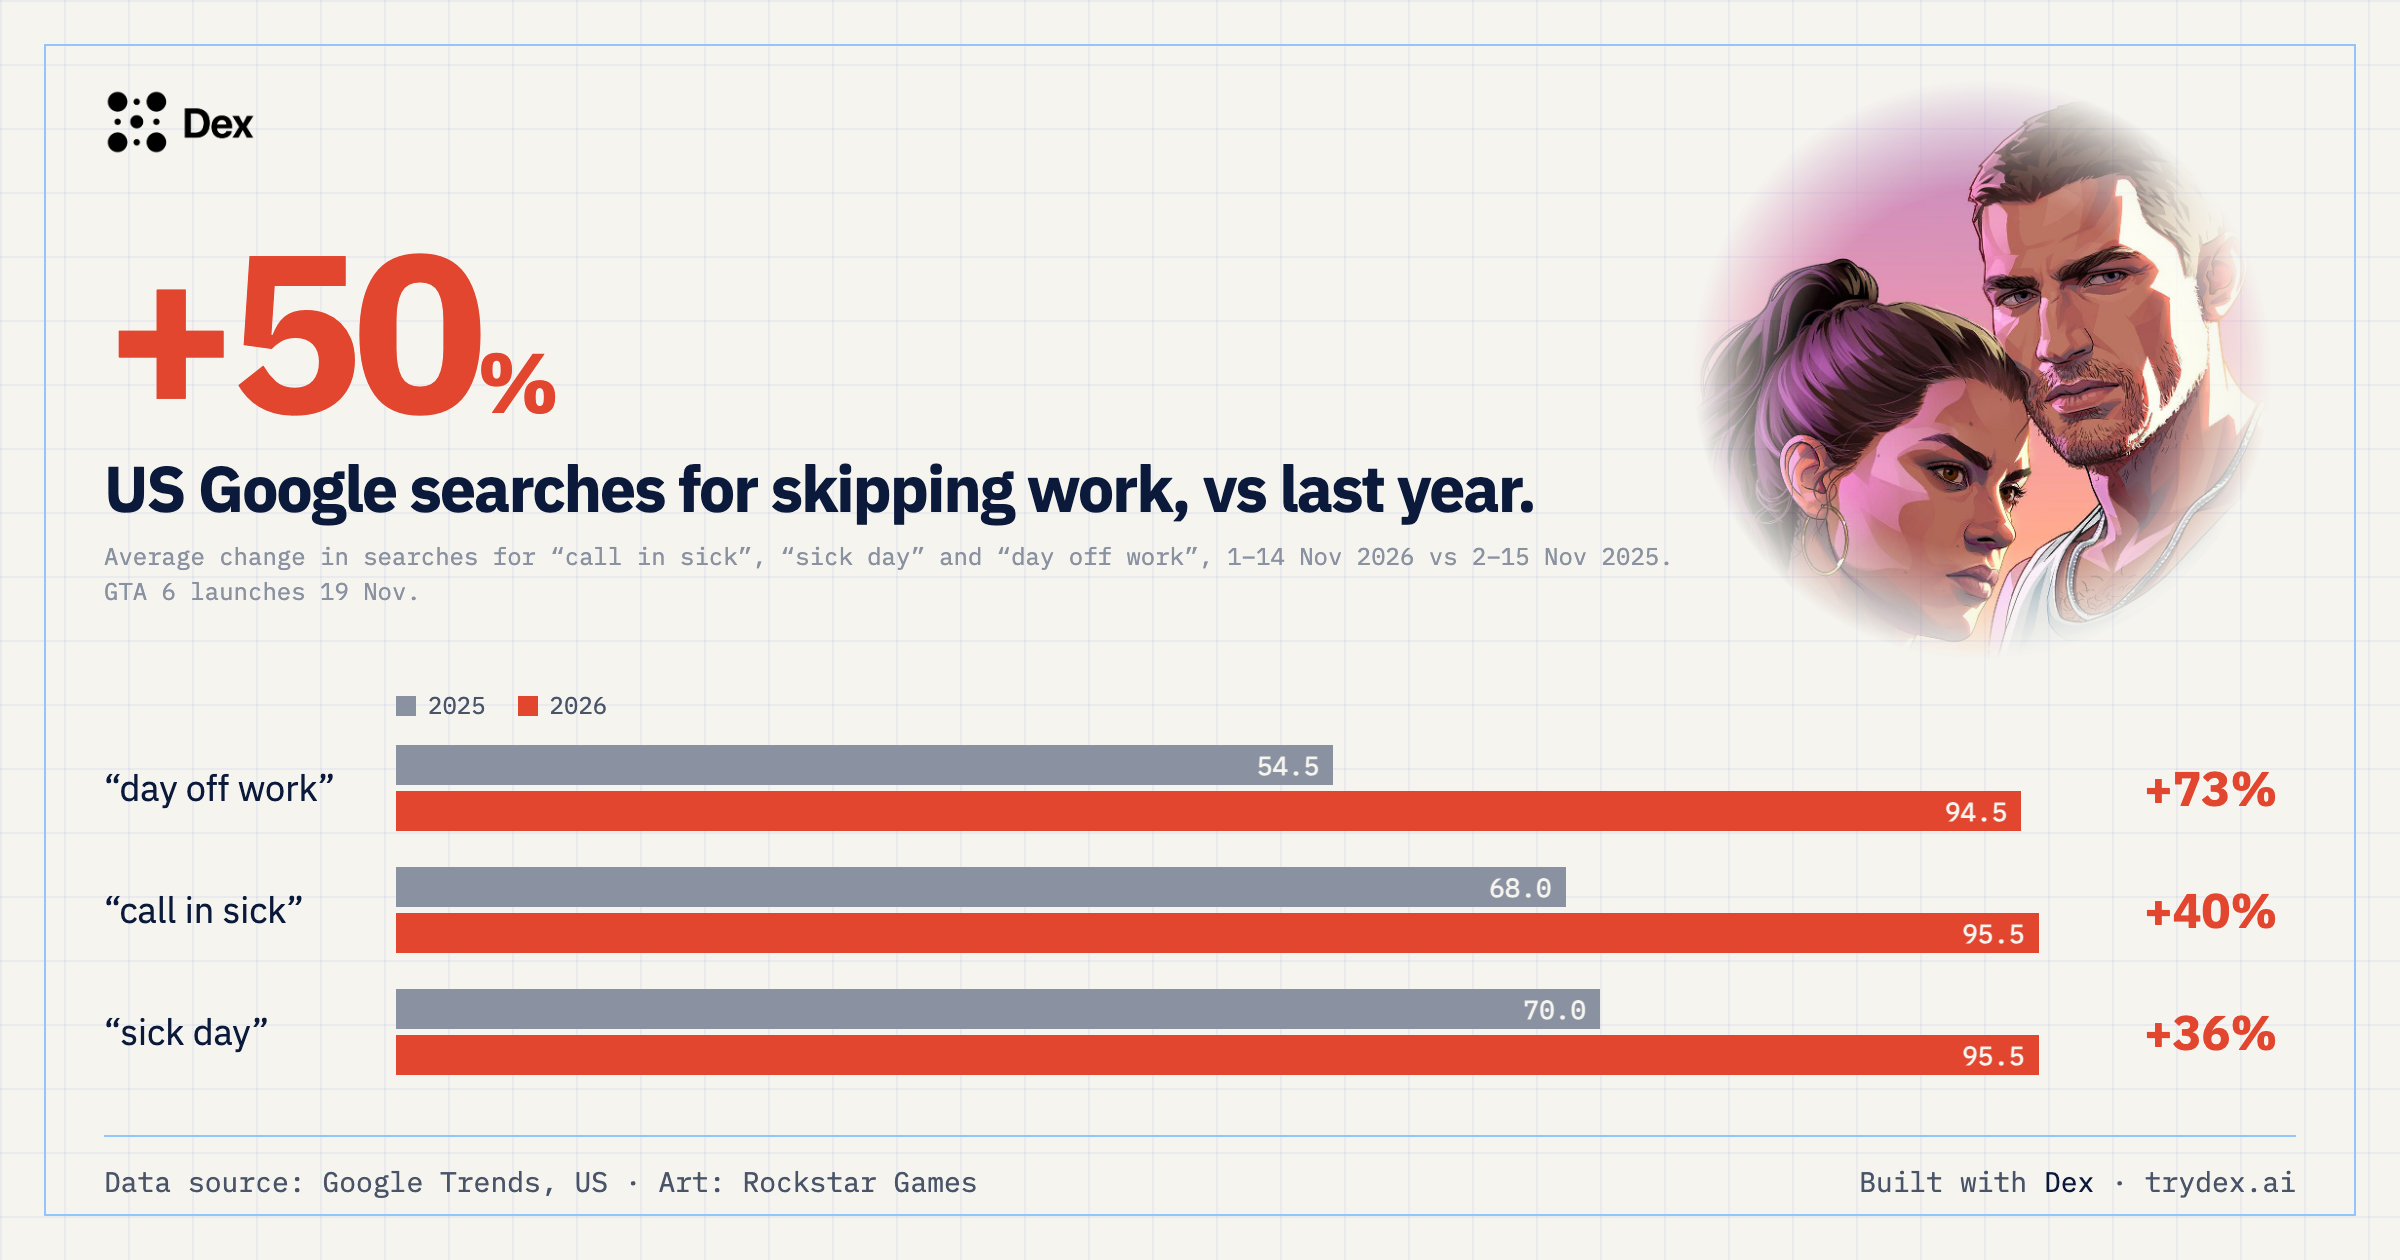
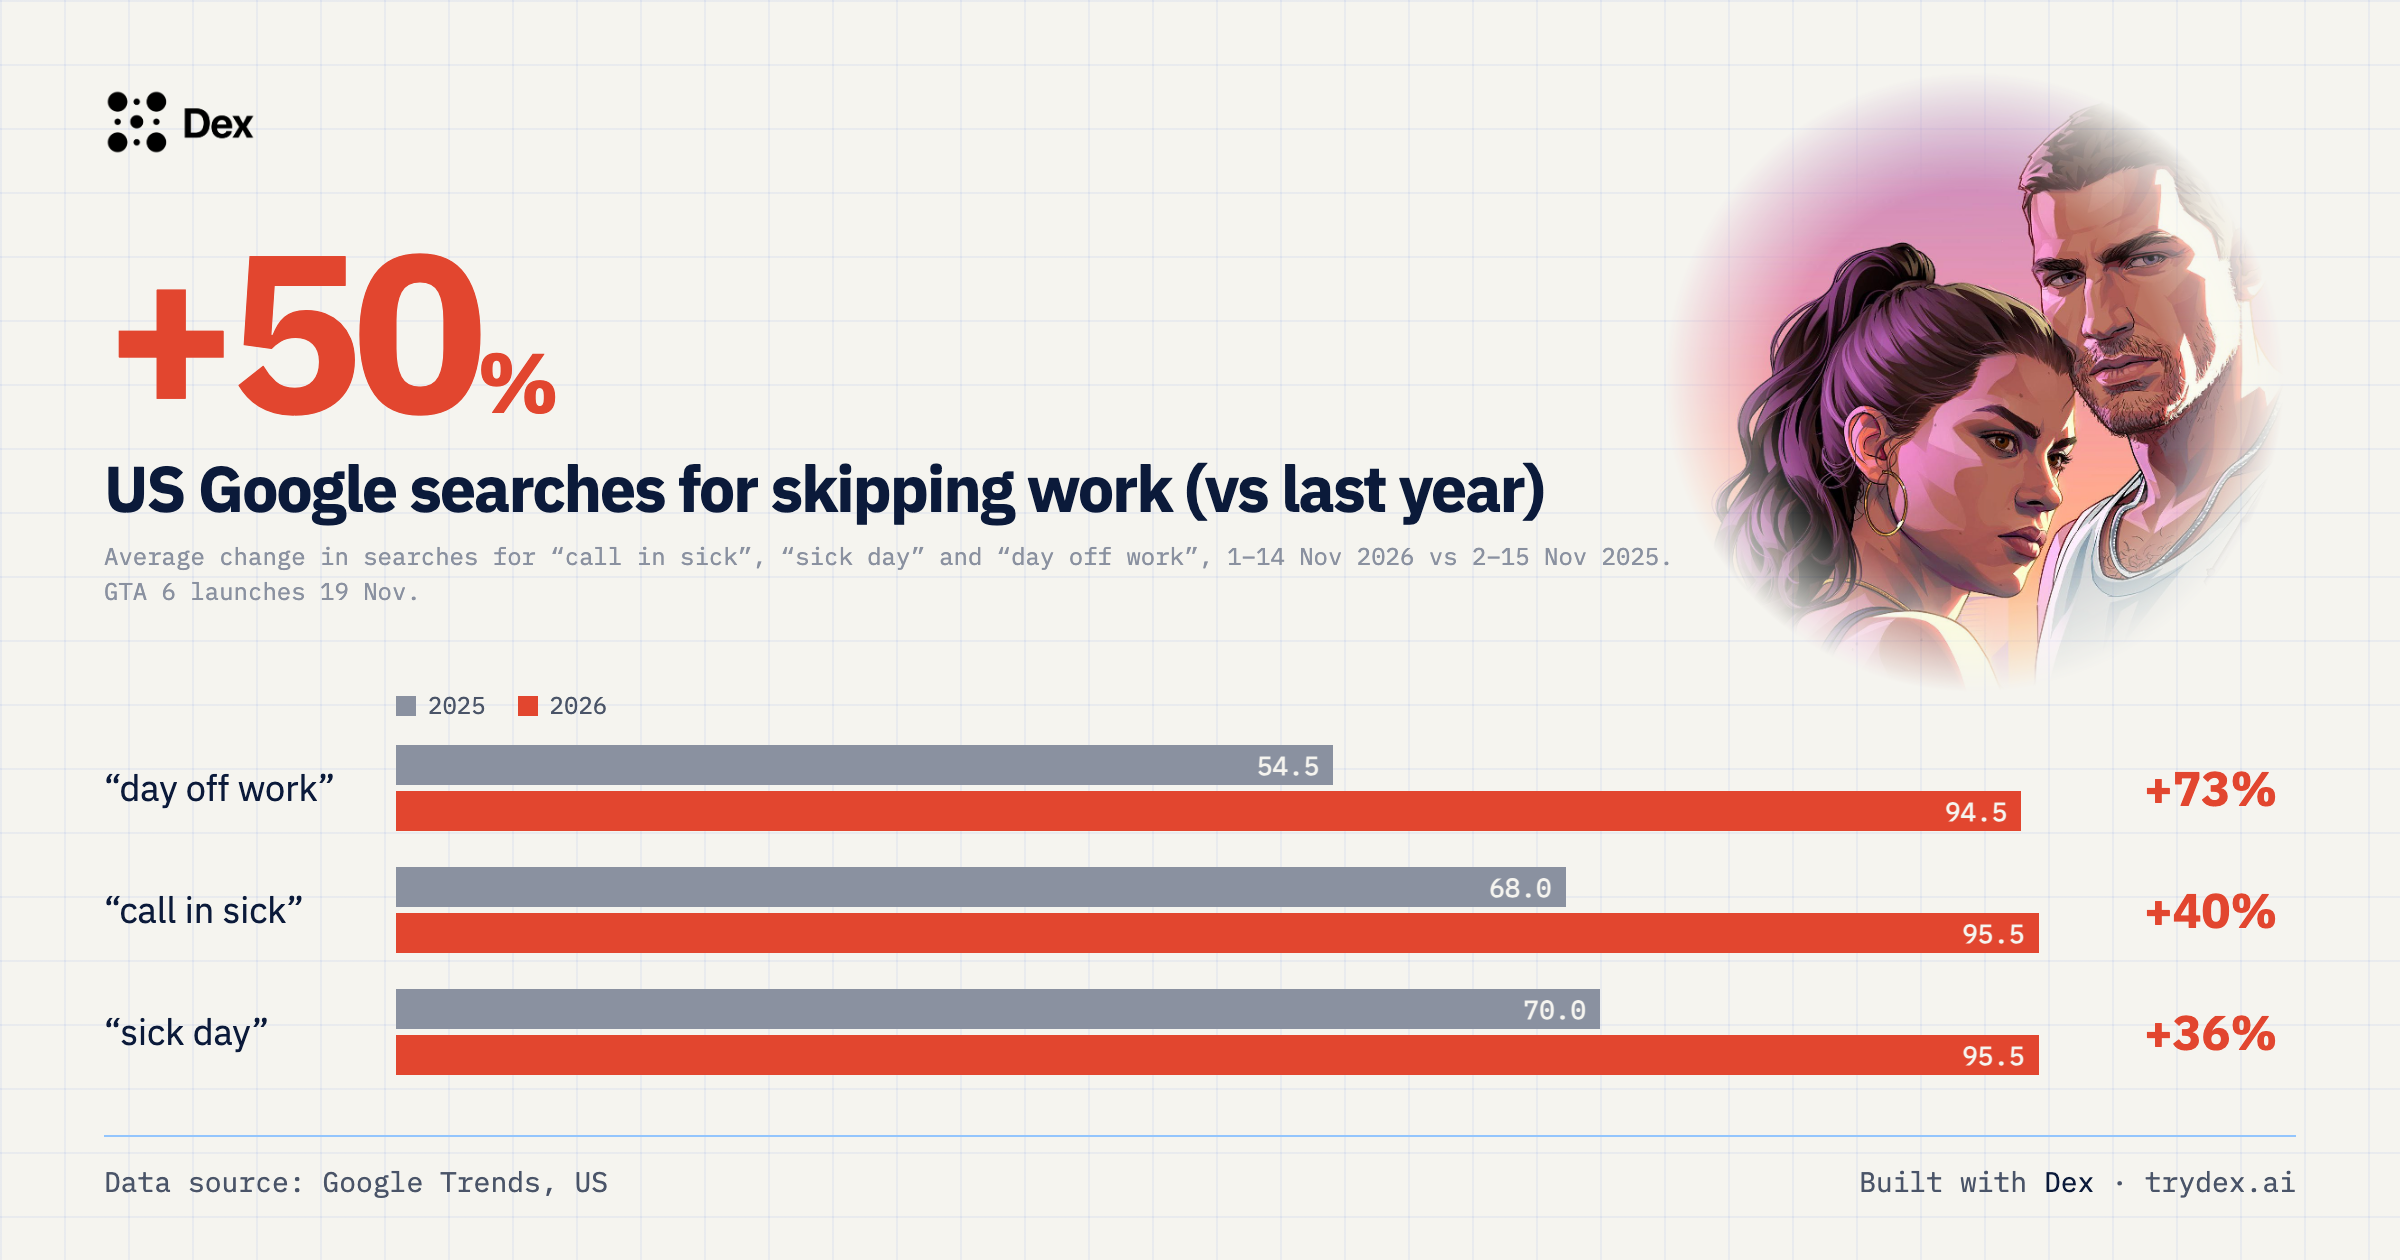
Fine-tuned chart for day off index, again

Changed region(s): [[0.6875, 0.0929, 0.9688, 0.5571], [0.4688, 0.3714, 0.6562, 0.4024], [0.2812, 0.9286, 0.4062, 0.9595]]

diff --git a/brand/charts.css b/brand/charts.css
@@ -11,7 +11,6 @@ html, body { margin: 0; background: var(--dex-paper); }
     linear-gradient(90deg, color-mix(in srgb, var(--dex-line) 6%, transparent) 1px, transparent 1px);
   background-size: 32px 32px;
 }
-.card::before { content: ""; position: absolute; inset: 22px; border: 1px solid var(--dex-line-soft); pointer-events: none; }
 .mast { display: flex; align-items: center; justify-content: space-between; gap: 20px; position: relative; }
 .brand { display: flex; align-items: center; gap: 12px; }
 .brand img { height: 34px; width: auto; }
@@ -54,11 +53,11 @@ h1 .red { color: var(--dex-redline); }
 .fine { margin: 8px 0 0; font: 12px/1.45 var(--font-mono); color: var(--dex-ink-faint); }
 
 /* Image bubble: a round crop in the top right that fades into the paper */
-.aside { position: absolute; top: 40px; right: 64px; width: 290px; height: 290px; margin: 0;
+.aside { position: absolute; top: 36px; right: 58px; width: 310px; height: 310px; margin: 0;
   overflow: hidden; border-radius: 50%; pointer-events: none;
   -webkit-mask-image: radial-gradient(circle closest-side, var(--dex-black) 62%, transparent 100%);
   mask-image: radial-gradient(circle closest-side, var(--dex-black) 62%, transparent 100%); }
-.aside img { position: absolute; height: 150%; top: -2%; left: 50%; transform: translateX(-50%); }
+.aside img { position: absolute; height: 130%; top: -1%; left: 50%; transform: translateX(-46%); }
 
 /* Year-on-year bars: per phrase, last year above this year, the change at the end */
 .yoy { display: grid; grid-template-columns: 132px 1fr 76px; column-gap: 14px; row-gap: 18px; align-items: center; }
